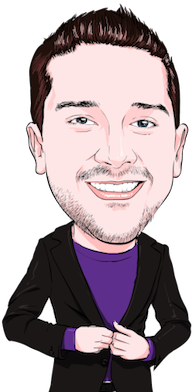
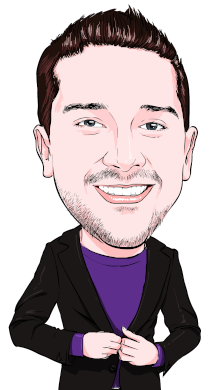
Caricatures on product stories shrink as page shrinks

diff --git a/source/assets/stylesheets/styles/_project_team.scss b/source/assets/stylesheets/styles/_project_team.scss
@@ -45,6 +45,10 @@
 
 .project-team__container--4 {
   width: 25%;
+
+  .project-team__headshot {
+    width: 75%;
+  }
 }
 
 .project-team__container--5 {
@@ -57,6 +61,6 @@
 
 .project-team__headshot {
   display: block;
-  width: 100% auto;
   max-height: 377px; // there is a problem with some images, it's used to unify them all
+  width: 100%;
 }
